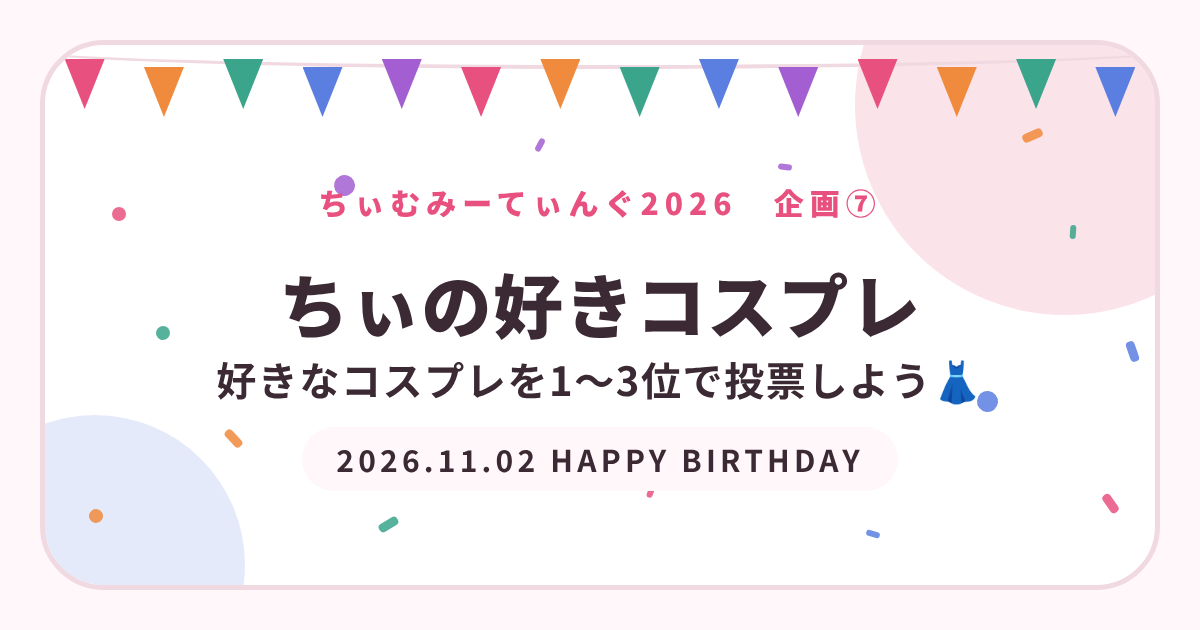
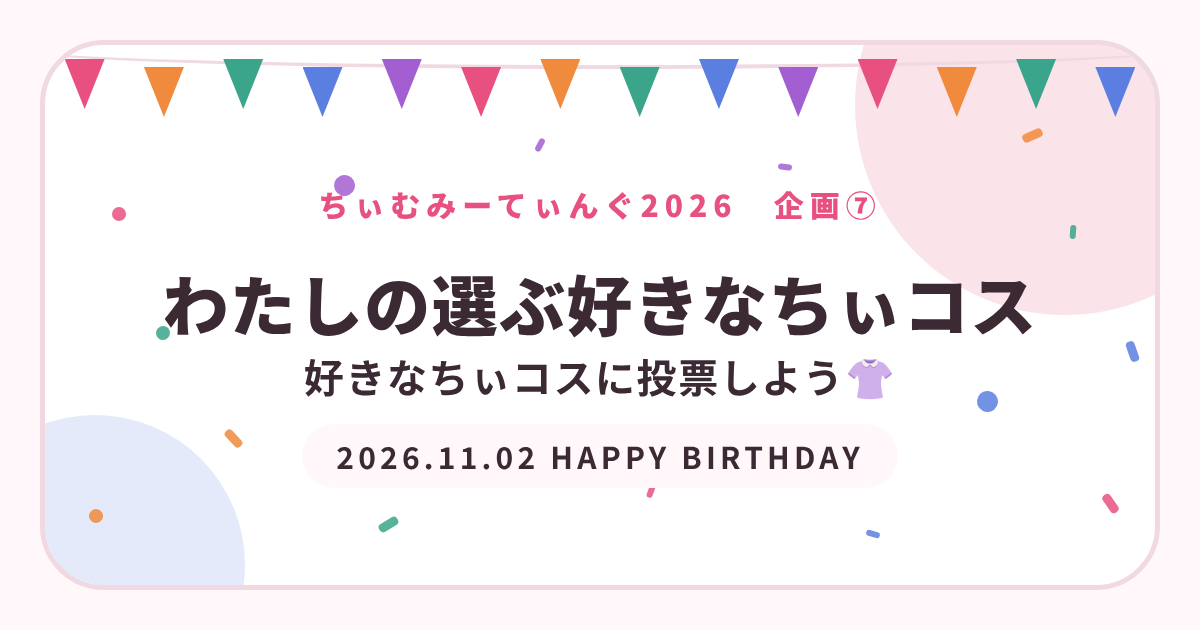
Add files via upload

diff --git a/kikaku7.html b/kikaku7.html
@@ -3,17 +3,17 @@
 <head>
 <meta charset="utf-8">
 <meta name="viewport" content="width=device-width,initial-scale=1,viewport-fit=cover">
-<title>ちぃの好きコスプレ</title>
+<title>わたしの選ぶ好きなちぃコス</title>
 <meta property="og:type" content="website">
 <meta property="og:site_name" content="ちぃむみーてぃんぐ2026">
-<meta property="og:title" content="ちぃの好きコスプレ｜ちぃむみーてぃんぐ2026">
-<meta property="og:description" content="ちぃむみーてぃんぐ2026 企画⑦ 好きなコスプレを1〜3位で投票しよう👗">
+<meta property="og:title" content="わたしの選ぶ好きなちぃコス｜ちぃむみーてぃんぐ2026">
+<meta property="og:description" content="ちぃむみーてぃんぐ2026 企画⑦ 好きなちぃコスに投票しよう👚">
 <meta property="og:image" content="/ogp-kikaku7.png">
 <meta property="og:image:width" content="1200">
 <meta property="og:image:height" content="630">
 <meta name="twitter:card" content="summary_large_image">
 <meta name="twitter:image" content="/ogp-kikaku7.png">
-<meta name="description" content="ちぃちゃん生誕企画「ちぃむみーてぃんぐ2026」企画⑦ ちぃの好きコスプレ">
+<meta name="description" content="ちぃちゃん生誕企画「ちぃむみーてぃんぐ2026」企画⑦ わたしの選ぶ好きなちぃコス">
 <link rel="preconnect" href="https://fonts.googleapis.com">
 <link rel="stylesheet" href="https://fonts.googleapis.com/css2?family=M+PLUS+Rounded+1c:wght@500;800&family=Zen+Kaku+Gothic+New:wght@400;700&display=swap">
 <style>
@@ -87,8 +87,8 @@ button,a,input{touch-action:manipulation}
 <div class="wrap">
   <a class="back" href="/">← ちぃむみーてぃんぐ2026 トップへ</a>
   <header>
-    <h1><span>ちぃ</span>の好きコスプレ</h1>
-    <p class="sub">好きなコスプレを1〜3位で投票しよう👗</p>
+    <h1>わたしの選ぶ好きな<span>ちぃ</span>コス</h1>
+    <p class="sub">好きなちぃコスに投票しよう👚</p>
     <p class="lead">いちばん好きなコスプレから順に、3つタップしてね。1番目にえらんだのが<b>1位（3点）</b>、2番目が<b>2位（2点）</b>、3番目が<b>3位（1点）</b>になります。投票すると、みんなの結果が見られるようになります。あとから選び直すこともできます（前の票と入れ替わります）。</p>
   </header>
   <div class="done" id="done" hidden>

diff --git a/kikaku7-kekka.html b/kikaku7-kekka.html
@@ -3,17 +3,17 @@
 <head>
 <meta charset="utf-8">
 <meta name="viewport" content="width=device-width,initial-scale=1,viewport-fit=cover">
-<title>ちぃの好きコスプレ 結果</title>
+<title>わたしの選ぶ好きなちぃコス 結果</title>
 <meta property="og:type" content="website">
 <meta property="og:site_name" content="ちぃむみーてぃんぐ2026">
-<meta property="og:title" content="ちぃの好きコスプレ 結果｜ちぃむみーてぃんぐ2026">
-<meta property="og:description" content="ちぃむみーてぃんぐ2026 企画⑦ みんなが選んだコスプレランキング">
+<meta property="og:title" content="わたしの選ぶ好きなちぃコス 結果｜ちぃむみーてぃんぐ2026">
+<meta property="og:description" content="ちぃむみーてぃんぐ2026 企画⑦ みんなが選んだちぃコスランキング">
 <meta property="og:image" content="/ogp-kikaku7.png">
 <meta property="og:image:width" content="1200">
 <meta property="og:image:height" content="630">
 <meta name="twitter:card" content="summary_large_image">
 <meta name="twitter:image" content="/ogp-kikaku7.png">
-<meta name="description" content="ちぃちゃん生誕企画「ちぃむみーてぃんぐ2026」企画⑦ ちぃの好きコスプレ">
+<meta name="description" content="ちぃちゃん生誕企画「ちぃむみーてぃんぐ2026」企画⑦ わたしの選ぶ好きなちぃコス">
 <link rel="preconnect" href="https://fonts.googleapis.com">
 <link rel="stylesheet" href="https://fonts.googleapis.com/css2?family=M+PLUS+Rounded+1c:wght@500;800&family=Zen+Kaku+Gothic+New:wght@400;700&display=swap">
 <style>
@@ -97,8 +97,8 @@ button,a,input{touch-action:manipulation}
 <div class="wrap">
   <a class="back" href="/kikaku7">← 投票ページへ</a>
   <header>
-    <h1><span>ちぃ</span>の好きコスプレ<br>結果発表</h1>
-    <p class="sub">みんなが選んだコスプレランキング👗</p>
+    <h1>わたしの選ぶ好きな<span>ちぃ</span>コス<br>結果発表</h1>
+    <p class="sub">みんなが選んだちぃコスランキング👚</p>
   </header>
   <div class="lock" id="lock" hidden>
     <span class="ic">🔒</span>

diff --git a/_worker.js b/_worker.js
@@ -503,7 +503,7 @@ async function phImage({ request, env }) {
   return new Response(bytes, { headers: { "content-type": b.type, "cache-control": shown ? "public, max-age=86400" : "private, no-store" } });
 }
 
-// ===== 企画⑥ わたしの選ぶちぃの好き顔／企画⑦ ちぃの好きコスプレ（候補の写真から3つえらんで投票） =====
+// ===== 企画⑥ わたしの選ぶちぃの好き顔／企画⑦ わたしの選ぶ好きなちぃコス（候補の写真から3つえらんで投票） =====
 // 2つの投票は同じしくみ。poll で見分ける（kao＝企画⑥、cos＝企画⑦）
 // pts：えらんだ順（1番目・2番目・3番目）の点数。企画⑥は全部1点、企画⑦は3点・2点・1点
 const POLLS = { kao: { pts: [1, 1, 1] }, cos: { pts: [3, 2, 1] } };
@@ -857,7 +857,7 @@ const PROJECTS = [
   { id: "kikaku4", title: "23歳のちぃ記録", desc: "23歳のちぃちゃんの1年を振り返ろう🗓", href: "/kikaku4", page: "kikaku4", open: false, soon: "10/29公開予定", showAfter: "kikaku3" },
   { id: "kikaku5", title: "ちぃちゃんの好きパフォーマンス", desc: "その好きポイント「わかる！」🙌", href: "/kikaku5", page: "kikaku5", open: false, soon: "10/30公開予定", showAfter: "kikaku4" },
   { id: "kikaku6", title: "わたしの選ぶちぃの好き顔", desc: "好きなちぃ顔に投票しよう🗳", href: "/kikaku6", page: "kikaku6", pages: ["kikaku6-kekka"], open: false, soon: "10/31公開予定", showAfter: "kikaku5" },
-  { id: "kikaku7", title: "ちぃの好きコスプレ", desc: "好きなコスプレを1〜3位で投票しよう👗", href: "/kikaku7", page: "kikaku7", pages: ["kikaku7-kekka"], open: false, soon: "11/1公開予定", showAfter: "kikaku6" },
+  { id: "kikaku7", title: "わたしの選ぶ好きなちぃコス", desc: "好きなちぃコスに投票しよう👚", href: "/kikaku7", page: "kikaku7", pages: ["kikaku7-kekka"], open: false, soon: "11/1公開予定", showAfter: "kikaku6" },
 ];
 
 let projectsReady = false;

diff --git a/admin.html b/admin.html
@@ -533,7 +533,7 @@ let kaoItems=[], kaoVoters=0, pendingK=null, kaoPoll="kao", kaoPts=[1,1,1];
 // 好き顔（企画⑥）とコスプレ（企画⑦）は同じ画面を使い回す
 const KAO_INFO={
   kao:{page:"kikaku6",desc:"企画⑥「わたしの選ぶちぃの好き顔」の候補の写真です。ここに載せた写真の中から、みんなが3つえらんで投票します（どれも1票ずつ）。"},
-  cos:{page:"kikaku7",desc:"企画⑦「ちぃの好きコスプレ」の候補の写真です。みんなが好きな順に3つえらんで投票します（1位3点・2位2点・3位1点）。"},
+  cos:{page:"kikaku7",desc:"企画⑦「わたしの選ぶ好きなちぃコス」の候補の写真です。みんなが好きな順に3つえらんで投票します（1位3点・2位2点・3位1点）。"},
 };
 function kaoSetup(){
   const I=KAO_INFO[kaoPoll];
